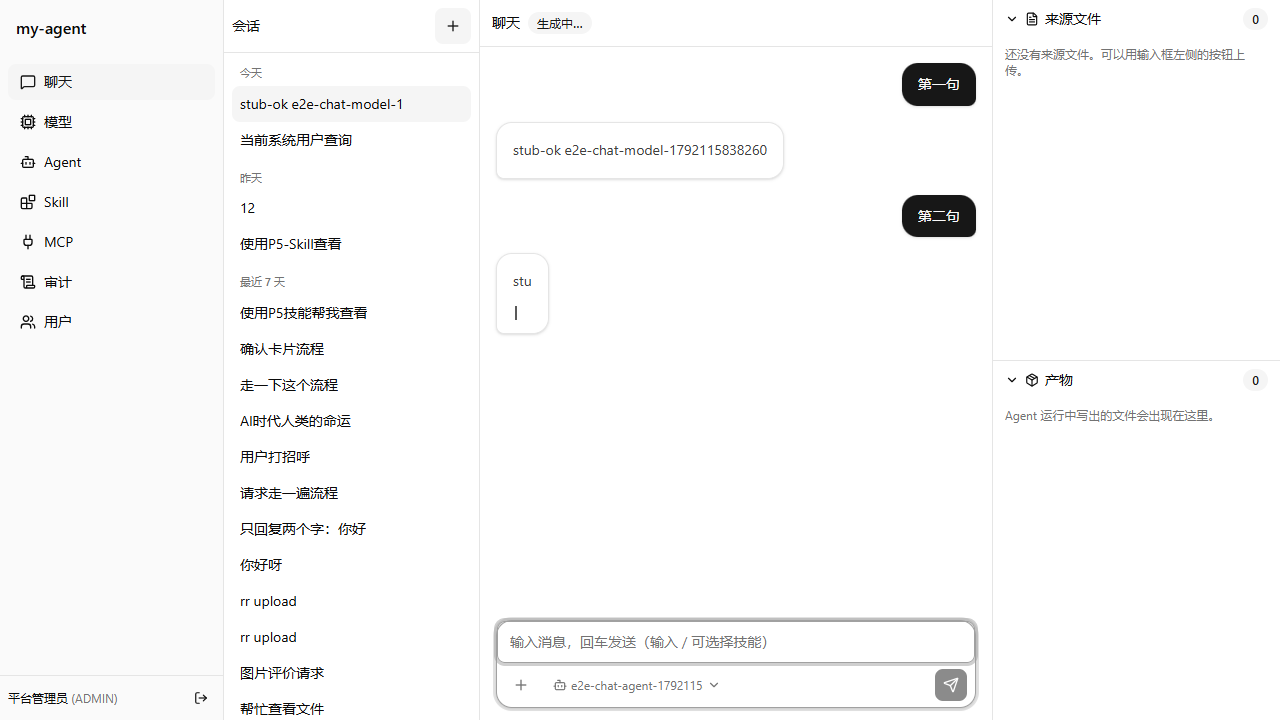
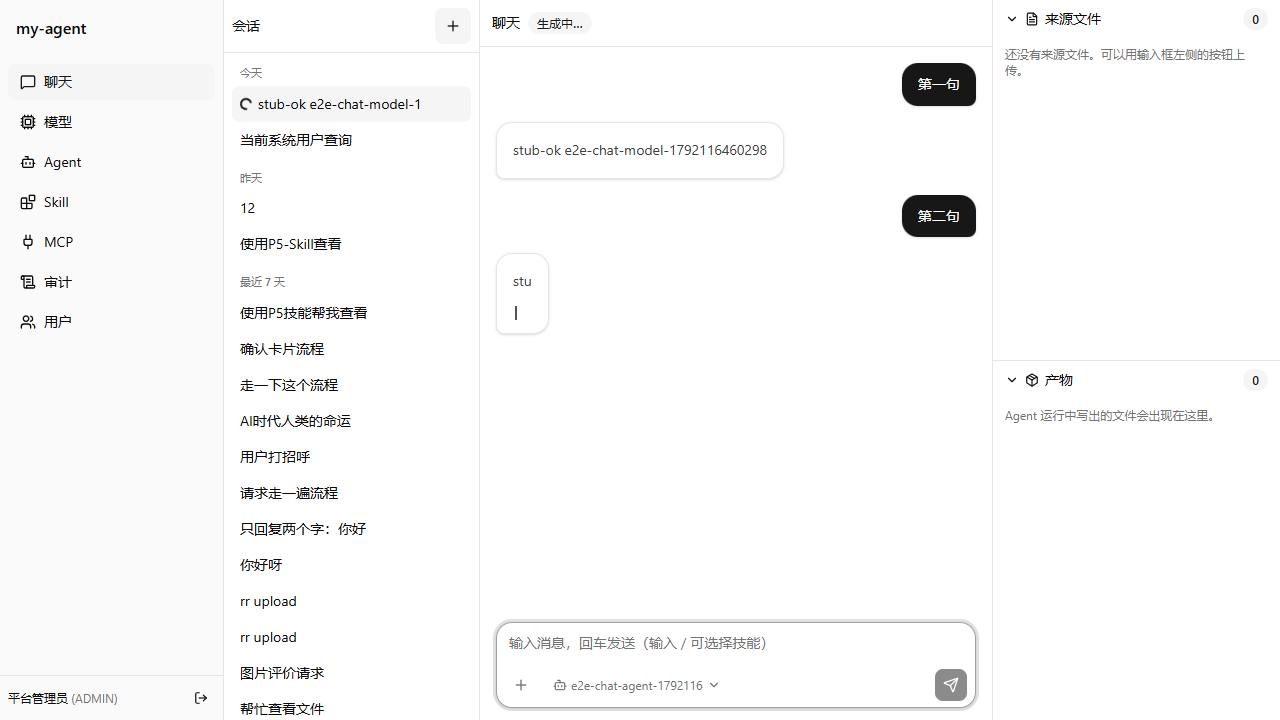
style(chat): 输入区去掉双层边框——外层圆角框负责边框，内部编辑器不再画一圈
用户反馈：输入框和下面那行之间有一条很粗的边线，希望是**一体化**的视觉。

根因：`SkillMentionInput` 内部的 contentEditable 自带 `border`（+ 聚焦 ring），
套进新的圆角外框后就变成**双层边框**，两层之间看起来就是一条粗线。

改动：
- 给 SkillMentionInput 加 `bare` 属性：只要输入区，不画自己的边框/圆角/聚焦环
  （边框与聚焦环统一由外层容器负责）；聊天输入区改用 `bare`。
- 队列那一行去掉 `border-t`（保留内边距做视觉分组）。
- 附件暂存区与底部控制行本来就没有边线，未动。

实测（量的，不是目测）：
- 内部编辑器 border = **0px**、圆角 = 0px；外层框 border = **1px** —— 只剩一层边框。
- 截图 docs/acceptance/task-35-composer-unified.png
- 前端 lint 0 error / vitest 73 通过 / build 成功；
  相关 e2e（排队·撤回·按钮规则 / 中文输入法 / 聊天布局）7 条通过。

Changed region(s): [[0.375, 0.8556, 0.7812, 0.9472], [0.1875, 0.1222, 0.3438, 0.1528], [0.5625, 0.1833, 0.5938, 0.2139]]

diff --git a/frontend/src/components/chat/SkillMentionInput.tsx b/frontend/src/components/chat/SkillMentionInput.tsx
@@ -49,9 +49,16 @@ export const SkillMentionInput = forwardRef<
     onSubmit: () => void;
     onPasteFiles: (files: File[]) => void;
     onContentChange?: (hasContent: boolean) => void;
+    /**
+     * 只要输入区、不要它自己的边框/圆角/聚焦环。
+     *
+     * 用途：外层已经有一个圆角框（聊天输入区就是），此时内层再画一圈会变成
+     * **双层边框 + 中间一条线**，视觉上很脏（用户反馈）。边框与聚焦环统一由外层负责。
+     */
+    bare?: boolean;
   }
 >(function SkillMentionInput(
-  { parts, onPartsChange, skills, disabled, placeholder, onSubmit, onPasteFiles, onContentChange },
+  { parts, onPartsChange, skills, disabled, placeholder, onSubmit, onPasteFiles, onContentChange, bare },
   ref,
 ) {
   const domRef = useRef<HTMLDivElement>(null);
@@ -255,8 +262,11 @@ export const SkillMentionInput = forwardRef<
         contentEditable={!disabled}
         suppressContentEditableWarning
         className={cn(
-          "border-input chat-input box-border max-h-40 min-h-9 w-full overflow-y-auto rounded-md border bg-transparent px-3 py-2 text-sm leading-6 break-words whitespace-pre-wrap",
-          "focus-visible:border-ring focus-visible:ring-ring/50 focus-visible:ring-[3px] focus-visible:outline-none",
+          "chat-input box-border max-h-40 min-h-9 w-full overflow-y-auto bg-transparent px-3 py-2 text-sm leading-6 break-words whitespace-pre-wrap focus-visible:outline-none",
+          // bare：边框/圆角/聚焦环交给外层容器（避免双层边框、中间出现一条线）
+          bare
+            ? "rounded-none border-0 focus-visible:ring-0"
+            : "border-input rounded-md border focus-visible:border-ring focus-visible:ring-ring/50 focus-visible:ring-[3px]",
           disabled && "cursor-not-allowed opacity-50",
         )}
         onClick={onContainerClick}

diff --git a/frontend/src/pages/chat/ChatPage.tsx b/frontend/src/pages/chat/ChatPage.tsx
@@ -1018,11 +1018,12 @@ export default function ChatPage() {
                 onSubmit={() => void send()}
                 onPasteFiles={stageIncoming}
                 onContentChange={setHasInput}
+                bare
               />
 
               {/* 待发送队列（处理中时发的消息会排在这里，可撤回） */}
               {queued.length > 0 && (
-                <div className="space-y-1 border-t px-2 py-1.5" data-testid="queued-list">
+                <div className="space-y-1 px-2 py-1.5" data-testid="queued-list">
                   {queued.map((item, index) => (
                     <div
                       key={item.id}
